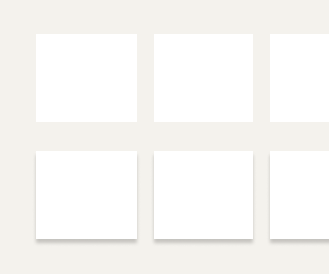
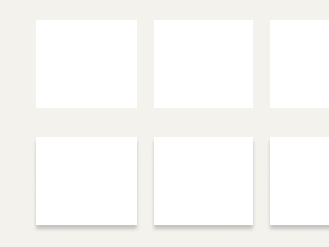
Rename vue component. Adjust image aspect ratios.

Changed region(s): [[0.0912, 0.8502, 0.4255, 0.9352], [0.4559, 0.8502, 0.7903, 0.9352], [0.8207, 0.8502, 1.0, 0.9352]]

diff --git a/docs/.vuepress/components/TwoColumnCaptionedImages.vue b/docs/.vuepress/components/TwoColumnCaptionedImages.vue
@@ -23,7 +23,7 @@
 
 <script>
 export default {
-  name: "TwoColumnGrid",
+  name: "TwoColumnCaptionedImages",
   props: {
     examples: {
       type: Array,
@@ -55,7 +55,6 @@ export default {
     border-radius: $cdr-radius-softer;
     border-bottom-left-radius: 0;
     border-bottom-right-radius: 0;
-    border-bottom: none;
     background-color: #fff;
   }
 
@@ -65,11 +64,8 @@ export default {
     &::before {
       content: '';
       display: block;
-      height: 8px;
       width: 100%;
       border: none;
-      border-bottom-style: solid;
-      border-bottom-width: 8px;
       border-bottom-left-radius: $cdr-radius-softer;
       border-bottom-right-radius: $cdr-radius-softer;
       margin-bottom: 8px;

diff --git a/docs/foundation/radius/README.md b/docs/foundation/radius/README.md
@@ -9,46 +9,66 @@
       "text": "Foundation/"
     }
   ],
+  "basics": [
+    {
+      "image": "radius/radius-basics-1.png",
+      "ratio": "4-3",
+      "alt": "A graphic showing a rectangle with rounded edges with a pointer cursor nearby.",
+      "caption": "With few exceptions, interactive components are rounded."
+    },
+    {
+      "image": "radius/radius-basics-2.png",
+      "ratio": "4-3",
+      "alt": "A graphic showing a larger and smaller rectangle. The smaller rectangle has less rounded corners than the larger rectangle",
+      "caption": "An object's border radius should be proportional to its shortest side."
+    },
+  ],
+  "nested": [
+    {
+      "image": "radius/radius-nested-1.png",
+      "ratio": "4-3",
+      "alt": "A graphic showing a larger rectangle with four smaller rectangles nested inside. The larger rectangle has a border radius as well as the nested rectangles",
+      "caption": "A nested object should inherit its parent's border type: rounded or not rounded."
+    },
+    {
+      "image": "radius/radius-nested-2.png",
+      "ratio": "4-3",
+      "alt": "A graphic showing a larger rectangle with a smaller rectangle nested within. Both have a border radius. The nested rectangle has a smaller border radius than the larger one",
+      "caption": "The border radius of a nested, rounded object should be smaller than that of its parent."
+    },
+  ]
 }
 ---
 
 <cdr-doc-table-of-contents-shell parentSelector='h2' childSelector='h3'>
 
 ## Overview
-[insert image: https://www.figma.com/file/O5VYAUnSrzoTVikTMyIQtT/Production-Graphics?node-id=663%3A609]
+<cdr-img :src="$withBase('/radius/radius-header.png')" ratio="16-9" alt="A graphic showing four nested rectangles against with rounded corners against a salmonberry colored background."/>
 
 ### Basics
-[insert 2-col grid for these...]
-https://www.figma.com/file/O5VYAUnSrzoTVikTMyIQtT/Production-Graphics?node-id=663%3A622
-With few exceptions, interactive components are rounded
-  
-https://www.figma.com/file/O5VYAUnSrzoTVikTMyIQtT/Production-Graphics?node-id=663%3A628
-An object's border radius should be proportional to its shortest side
+<two-column-captioned-images :examples="$page.frontmatter.basics"/>
   
 ### Nested objects
-[insert 2-col grid for these...]
-https://www.figma.com/file/O5VYAUnSrzoTVikTMyIQtT/Production-Graphics?node-id=663%3A580
-A nested object should inherit its parent's border type: rounded or not rounded
-  
-https://www.figma.com/file/O5VYAUnSrzoTVikTMyIQtT/Production-Graphics?node-id=663%3A595
-The border radius of a nested, rounded object should be smaller than that of its parent
+<two-column-captioned-images :examples="$page.frontmatter.nested"/>
   
 ## Application
 
 ### Tokenized options
 Cedar components include appropriate radii values applied by default. Use tokens to apply radii values to bespoke elements or containers.
-[insert image: https://www.figma.com/file/O5VYAUnSrzoTVikTMyIQtT/Production-Graphics?node-id=663%3A569]
+
+<cdr-img :src="$withBase('/radius/radius-tokens.png')" style="display:block; margin: 1em auto;" alt="A graphic showing four numbered shapes, each shape has softer rounded corners than the next. The fourth shape is by far the roundest"/>
 1. Sharp: `cdr-radius-sharp` 
 2. Soft:  `cdr-radius-soft` 
 3. Softer:  `cdr-radius-softer` 
 4. Round:  `cdr-radius-round`
   
 ### When to use
-+ Do choose a radius that's proportional to the size of the element
-+ Do use rounded corners for actionable components like buttons, cards, and chips
+- Do choose a radius that's proportional to the size of the element
+- Do use rounded corners for actionable components like buttons, cards, and chips
   
 ### When to use a different approach
-+ Don't use roundness as the only means of conveying actionability
-+ Don't round the corners of small, non-interactive pieces of UI
-+ Don't overuse rounded corners, consider the whole page
+- Don't use roundness as the only means of conveying actionability
+- Don't round the corners of small, non-interactive pieces of UI
+- Don't overuse rounded corners, consider the whole page
+
 </cdr-doc-table-of-contents-shell>

diff --git a/docs/foundation/prominence/README.md b/docs/foundation/prominence/README.md
@@ -12,31 +12,37 @@
   "bestPractices": [
     {
       "image": "prominence/prominence-best-practice-1.png",
+      "ratio": "4-3",
       "alt": "A graphic showing content with a slightly elevated border with a standard pointer cursor nearby",
       "caption": "Along with other attributes, convey an ability to be pressed."
     },
     {
       "image": "prominence/prominence-best-practice-2.png",
+      "ratio": "4-3",
       "alt": "A graphic showing two rectangles representing pieces of content. The left rectangle appears to be raised higher than the right rectangle because a link pointer is hovering over it",
       "caption": "Respond to interaction by raising or lowering."
     },
     {
       "image": "prominence/prominence-best-practice-3.png",
+      "ratio": "4-3",
       "alt": "A graphic showing text next to elevated content on the right hand side",
       "caption": "Focus a user's attention on a specific object."
     },
     {
       "image": "prominence/prominence-best-practice-4.png",
+      "ratio": "4-3",
       "alt": "A graphic showing a column of three identically sized rectangles with a grabber pointer over the first item. The first item appears to be elevated higher than the other two rectangles",
       "caption": "Signal that an object can be moved across a surface."
     },
     {
       "image": "prominence/prominence-best-practice-5.png",
+      "ratio": "4-3",
       "alt": "A graphic showing two sets of three rectangles. The bottom set of rectangles appears to be elevated while the top three are not elevated",
       "caption": "Visually separate dissimilar content or help group like items."
     },
     {
       "image": "prominence/prominence-best-practice-6.png",
+      "ratio": "4-3",
       "alt": "Graphic where the lower corner of a rectangle is superimposed over another rectangle",
       "caption": "Create emphasize foreground and background relationships."
     },
@@ -45,10 +51,8 @@
 ---
 
 <cdr-doc-table-of-contents-shell parentSelector='h2' childSelector='h3'>
-
 ## Overview
-<cdr-img :src="$withBase('/prominence/prominence-header.png')" alt="A graphic showing a rectangular layout tilted at 45 degrees, with each rectangle slightly elevated. Next to the layout are x, y, and z axes to indicate height, width and depth"/>
-
+<cdr-img :src="$withBase('/prominence/prominence-header.png')" ratio="16-9" alt="A graphic showing a rectangular layout tilted at 45 degrees, with each rectangle slightly elevated. Next to the layout are x, y, and z axes to indicate height, width and depth"/>
 ### How designers create depth
 Most digital interfaces are inherently flat—which is to say all objects within an interface are constrained by two spatial dimensions: width (x) and height (y). To add additional dimensionality designers must create an illusion of depth (z). While there are several techniques to achieve this, designers typically will use varying degrees of a drop shadow. The ranges of depth created are used to strengthen spatial relationships and provide additional interaction affordances. 
 
@@ -58,12 +62,12 @@ While there are some parallels between an object's elevation and its z-index—s
 
 ### Why designers chose to elevate interface objects
 The shadow cast by an elevated object helps to communicate aspects of interactivity, order, and priority by drawing from real-world conventions. More specifically, designers use this implied sense of depth to: 
-<two-column-grid :examples="$page.frontmatter.bestPractices"/>
+<two-column-captioned-images :examples="$page.frontmatter.bestPractices"/>
 
 ## Application
   
 ### Tokenized options
-<cdr-img :src="$withBase('/prominence/prominence-tokens.png')" alt="A graphic showing squares labeled 1 through 5 in ascending prominence"/>
+<cdr-img :src="$withBase('/prominence/prominence-tokens.png')" style="display:block; margin: 1em auto;" alt="A graphic showing squares labeled 1 through 5 in ascending prominence"/>
 
 1.	Flat: cdr-prominence-height-flat
 2.	Raised: cdr-prominence-height-raised
